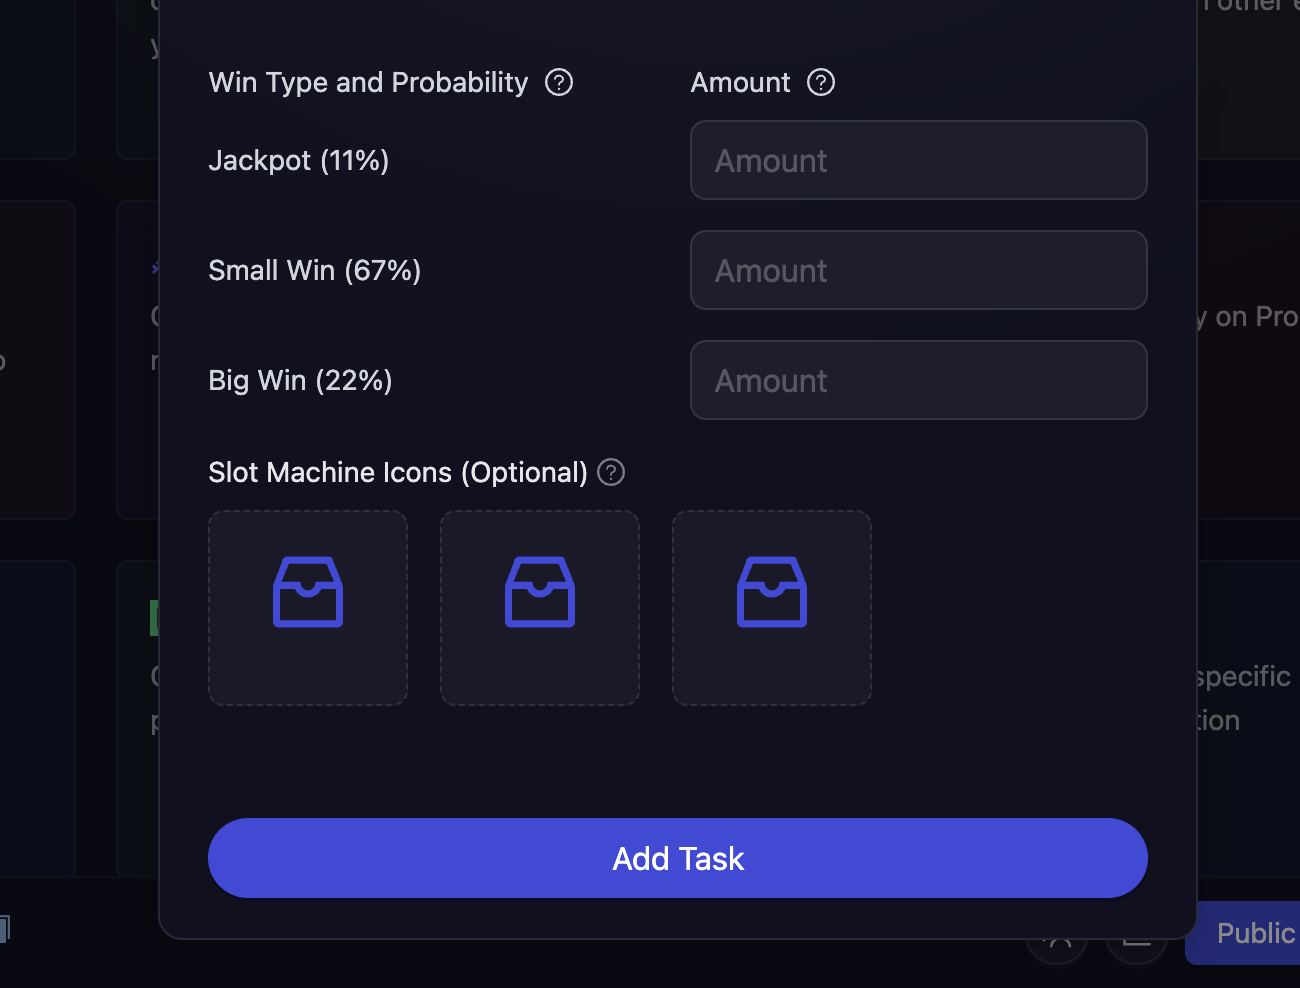
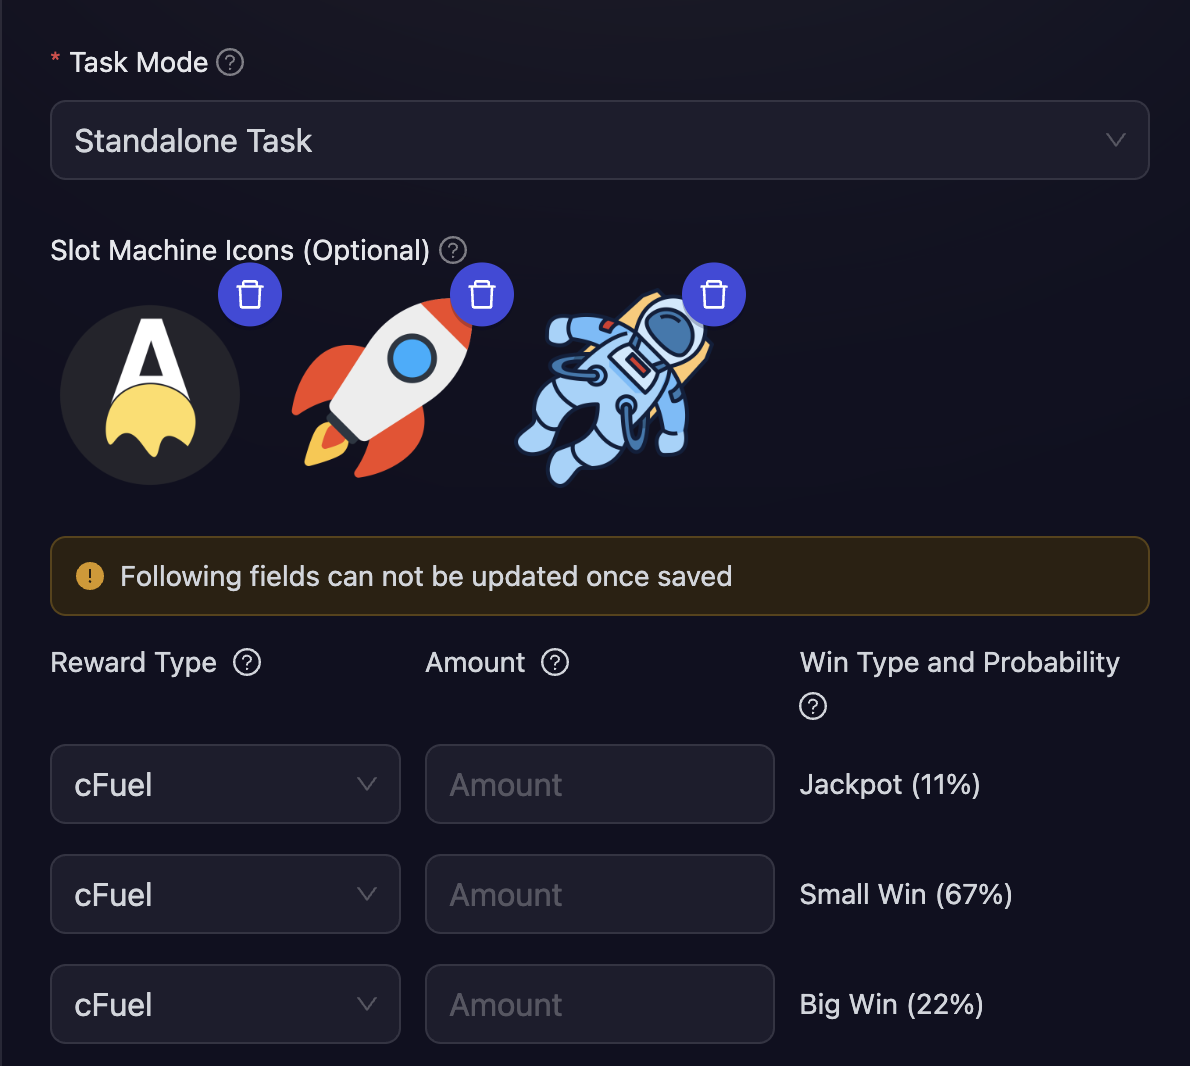
add luckydraw task extension and distribution docs

diff --git a/docs/campaign/quests/lucky-draw.md b/docs/campaign/quests/lucky-draw.md
@@ -18,27 +18,55 @@ Lucky Draw tasks add an exciting element of chance to your campaigns, helping bo
 
 - To configure the **Task Condition & Recurrence**, refer to the [Task Condition & Recurrence](../task-condition-and-recurrence.md) page.
 
-- Choose the **reward type**, you can either choose between cFuel or XP.
+## Task Mode
+
+Lucky Draw tasks offer two distinct modes of operation:
+
+- **Standalone Task:** The task behaves like a regular quest task and is visible to all participants from the start. Users can complete it at any time during the campaign.
+
+- **Bonus Reward:** The task remains hidden until specific conditions are met. You'll need to configure conditions in the **Task Condition & Recurrence** section. Once participants meet these conditions, the Lucky Draw task becomes visible and accessible to them. This mode is perfect for rewarding loyal participants or those who have achieved specific milestones.
+
+## Configuring Rewards
+
+Lucky Draw tasks support multiple reward types, and each reward tier can have a different type:
+
+- **cFuel:** Award campaign fuel points
+- **cXP:** Award experience points
+- **Giveaway:** Award rewards from a Lucky Draw giveaway
+
+You can mix and match reward types within the same Lucky Draw task. For example:
+
+- Reward 1: 100 cFuel
+- Reward 2: 50 cXP
+- Reward 3: A giveaway reward (NFT, tokens, Discord roles, etc.)
+
+### Using Giveaway Rewards
+
+To use giveaway as a reward type, you must first create a giveaway with the [Lucky Draw distribution type](../rewards/winner-selection/luckydraw.md). Once created, you can select it while configuring your Lucky Draw task. Winners of the Lucky Draw task will automatically be entered into the giveaway based on what they win.
+
+> **Important:** Once a reward is created with its probability, reward type, and amount, these values cannot be modified. Plan your reward structure carefully before adding the task.
 
 #### To setup Spin The Wheel Task
 
-- Enter the **reward amounts** and their respective **winning probabilities**. For example:
+- Select the **reward type** for each tier (cFuel, cXP, or Giveaway), enter the **reward amounts**, and set their respective **winning probabilities**. For example:
 
-  You can add upto 10 reward tiers, and set them up like:
+  You can add up to 10 reward tiers, and set them up like:
 
   - 100 cFuel with 10% probability (rare reward)
-  - 50 cFuel with 30% probability (uncommon reward)
-  - 20 cFuel with 60% probability (common reward)
+  - 50 cXP with 30% probability (uncommon reward)
+  - Giveaway reward with 60% probability (common reward)
 
   ![Spin the Wheel Task Reward](../../images/LuckydrawTaskSpinBox.png)
 
 #### To setup Slot Machine Task
 
-- In this task, the winning probabilities are predefined, but you can manually set the reward amount for each tier. The predefined tiers and their probabilities are as follows:
+- In this task, the winning probabilities are predefined, but you can select the reward type (cFuel, cXP, or Giveaway) and manually set the reward amount for each tier. The predefined tiers and their probabilities are as follows:
 
-  - **Jackpot:** All three slot icons are same (Winning Probaiity: 11%)
-  - **Small Win:** All three slot icons are different (Winning Probaiity: 67%)
-  - **Big Win:** Any two slot icons are same (Winning Probaiity: 22%)
+  - **Jackpot:** All three slot icons are same (Winning Probability: 11%)
+  - **Small Win:** All three slot icons are different (Winning Probability: 67%)
+  - **Big Win:** Any two slot icons are same (Winning Probability: 22%)
+
+- Each tier can have a different reward type. For example, Jackpot could award a Giveaway reward, Big Win could award cXP, and Small Win could award cFuel.
 
 - Optionally, you can also add custom slot icons, or use the default ones.
 
@@ -46,13 +74,13 @@ Lucky Draw tasks add an exciting element of chance to your campaigns, helping bo
 
 #### To setup Mystery Box Task
 
-- Similar to **Spin the Wheel**, enter the **reward amounts** and their respective **winning probabilities**.
+- Similar to **Spin the Wheel**, select the **reward type** for each tier (cFuel, cXP, or Giveaway), enter the **reward amounts**, and set their respective **winning probabilities**.
 
   ![Mystery Box Task Reward](../../images/mysterybox.png)
 
 - Click **Add Task** to add the Lucky Draw task to your campaign.
 
-> **Note:** The probabilities must add up to 100%. This setup ensures that different rewards have different chances of being won, creating an exciting and dynamic experience for participants. In the example above, when a user spins the wheel, they have a 60% chance to win 20 cFuel, a 30% chance to win 50 cFuel, and a 10% chance to win 100 cFuel.
+> **Note:** The probabilities must add up to 100%. This setup ensures that different rewards have different chances of being won, creating an exciting and dynamic experience for participants. Each reward tier can have a different reward type, allowing you to create diverse prize pools that include cFuel, cXP, and giveaway rewards.
 
 :::tip For instant help
 

diff --git a/docs/campaign/rewards/winner-selection/luckydraw.md b/docs/campaign/rewards/winner-selection/luckydraw.md
@@ -1,0 +1,58 @@
+# Lucky Draw
+
+The Lucky Draw winner selection strategy creates an exciting, gamified experience where winners are determined based on the results of a [Lucky Draw task](../../quests/lucky-draw.md). This approach combines task completion with chance-based rewards, making your campaign more engaging and interactive for participants.
+
+## How Lucky Draw Winner Selection Works
+
+When you create a giveaway with the Lucky Draw distribution strategy, winners are automatically selected based on what participants win when they complete the Lucky Draw task (Spin the Wheel, Slot Machine, or Mystery Box). The giveaway rewards are distributed according to the Lucky Draw task results, creating a seamless connection between task completion and reward distribution.
+
+## Creating a Lucky Draw Giveaway
+
+To set up a giveaway with Lucky Draw winner selection:
+
+1. **Navigate to the Rewards section** in your campaign and select the type of reward you wish to offer (NFT, Tokens, Discord Roles, etc.).
+
+2. **Select Lucky Draw** from the Winner Selection Strategy dropdown.
+
+   ![Lucky Draw Distribution](../images/luckydraw-distribution.png)
+
+3. **Configure the giveaway details** based on your selected reward type:
+
+   - **Reward Summary:** Enter a descriptive title for the giveaway
+   - **Total Amount/Quantity:** Specify how many rewards are available
+   - Additional fields will vary depending on the reward type (amount per winner for token/NFT, role selection for Discord, etc.)
+
+4. **Hidden Reward Option:**
+
+   The Lucky Draw strategy includes a unique **Hidden Reward** feature:
+
+   - **When checked:** The reward details will not be shown to users until they win it from the Lucky Draw task. In the Lucky Draw interface, it will appear as "Mystery Giveaway" to maintain the element of surprise.
+
+   - **When unchecked:** The reward will be visible to all participants, just like other distribution types. Users will know what they're playing for before completing the Lucky Draw task.
+
+5. Click **Create Giveaway** to finalize the setup.
+
+## Use Cases
+
+The Lucky Draw winner selection strategy is perfect for:
+
+- **Surprise Rewards:** Keep participants guessing with hidden rewards that create excitement and anticipation
+- **Tiered Campaigns:** Combine multiple Lucky Draw giveaways with different probabilities for rare and common rewards
+- **Gamified Experiences:** Turn standard reward distribution into an interactive game that participants remember
+- **Engagement Boosting:** Encourage repeat participation by making reward distribution entertaining and fun
+
+## Important Notes
+
+- To use this winner selection strategy, you must first create a Lucky Draw task in your campaign
+- The Lucky Draw task configuration (reward types and probabilities) determines who receives which giveaway rewards
+- Each participant's Lucky Draw result directly impacts which giveaway they win
+- Hidden rewards add an element of mystery, while visible rewards let users know exactly what they're playing for
+
+:::tip For instant help
+
+1. Create a support ticket on our Discord: https://discord.gg/bx6ZCTwbYw
+2. Join [this Telegram group](https://t.me/kyteone): https://t.me/kyteone
+
+**_The AirLyft Team is there to help you. AirLyft is a platform to run marketing events, campaigns, quests and automatically distribute NFTs or Tokens as rewards._**
+
+:::
